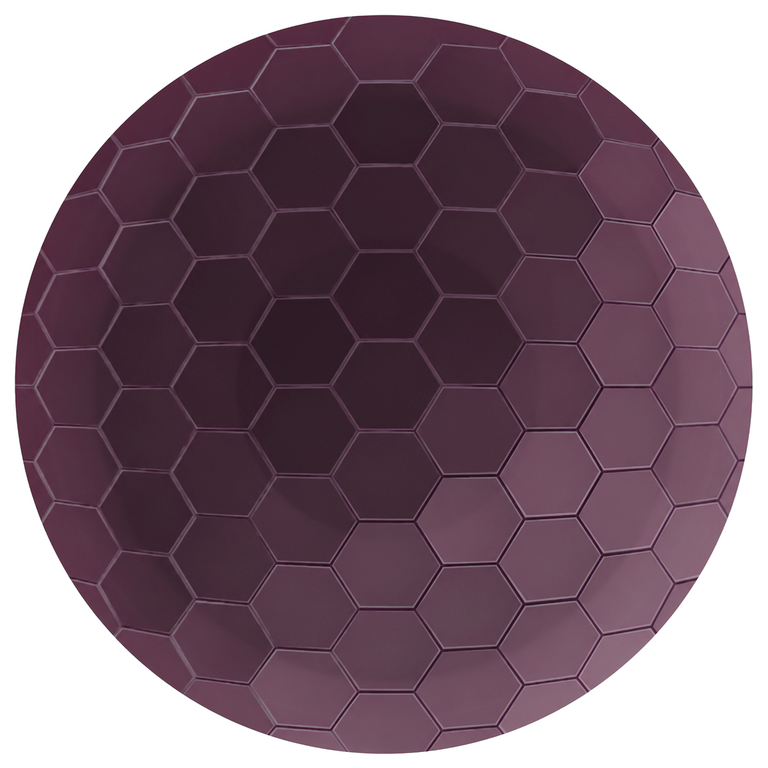
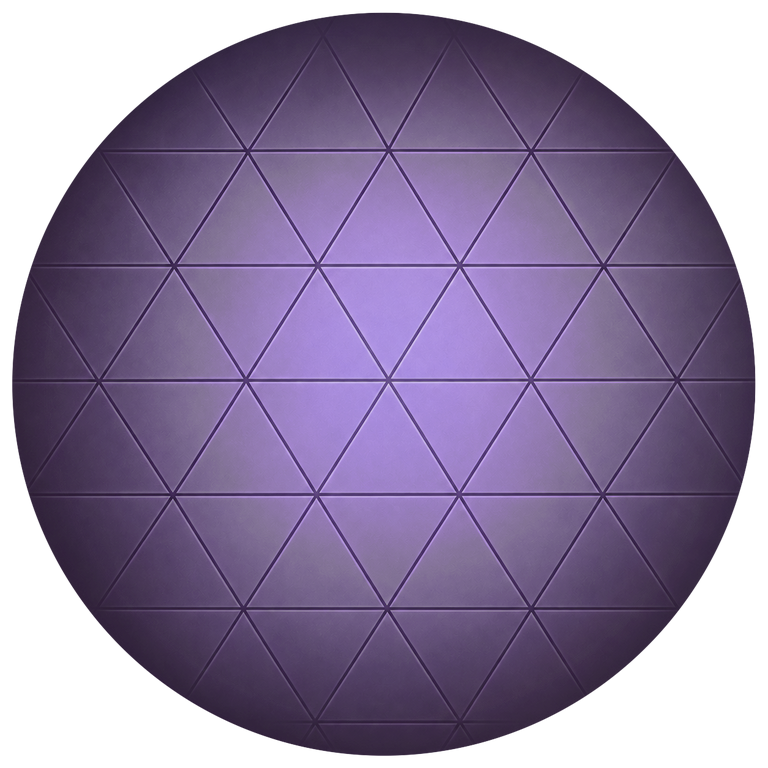
Add files via upload

diff --git a/sw.js b/sw.js
@@ -1,5 +1,5 @@
 const AUDIO_CACHE = 'spiral-warrior-audio-v1';
-const IMAGE_CACHE = 'spiral-warrior-images-v1';
+const IMAGE_CACHE = 'spiral-warrior-images-v2';
 
 const AUDIO_FILES = [
     './bgm_home.mp3',
